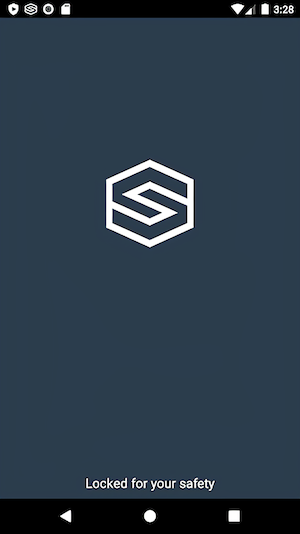
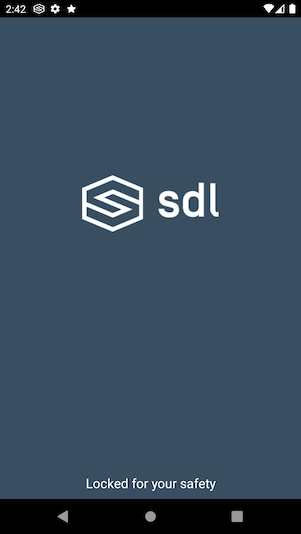
Issue 296 (#297)
* Update Android LockScreen Images (#293)

* Update Android LockScreen Images

* Resize android images added

* Minify images

* Update Documentation for foregroundServiceType

diff --git a/docs/Getting Started/Integration Basics/index.md b/docs/Getting Started/Integration Basics/index.md
@@ -626,6 +626,11 @@ If you created the service using the Android Studio template then the service sh
 </manifest>
 ```
 
+!!! NOTE
+Android API 29 adds a new attribute [foregroundServiceType](https://developer.android.com/reference/android/R.attr#foregroundServiceType) to specify the type of foreground service.
+Starting with Android API 29 please include `android:foregroundServiceType='connectedDevice'` to the service tag for SdlService in your AndroidManifest.xml
+!!!
+
 ### Entering the Foreground
 Because of Android Oreo's requirements, it is mandatory that services enter the foreground for long running tasks. The first bit of integration is ensuring that happens in the `onCreate` method of the `SdlService` or similar. Within the service that implements the SDL lifecycle you will need to add a call to start the service in the foreground. This will include creating a notification to sit in the status bar tray. This information and icons should be relevant for what the service is doing/going to do. If you already start your service in the foreground, you can ignore this section.
 
@@ -951,6 +956,11 @@ Make sure this local class `SdlRouterService.java` is in the same package of `Sd
 !!!
 
 If you created the service using the Android Studio template then the service should have been added to your `AndroidManifest.xml` otherwise the service needs to be added in the manifest. Because we want our service to be seen by other SDL enabled apps, we need to set `android:exported="true"`. The system may issue a lint warning because of this, so we can suppress that using `tools:ignore="ExportedService"`.
+
+!!! NOTE
+Android API 29 adds a new attribute [foregroundServiceType](https://developer.android.com/reference/android/R.attr#foregroundServiceType) to specify the type of foreground service.
+Starting with Android API 29 please include `android:foregroundServiceType='connectedDevice'` to the service tag for SdlRouterService in your AndroidManifest.xml
+!!!
 
 !!! MUST
 The `SdlRouterService` must be placed in a separate process with the name `com.smartdevicelink.router`. If it is not in that process during its start up it will stop itself.
